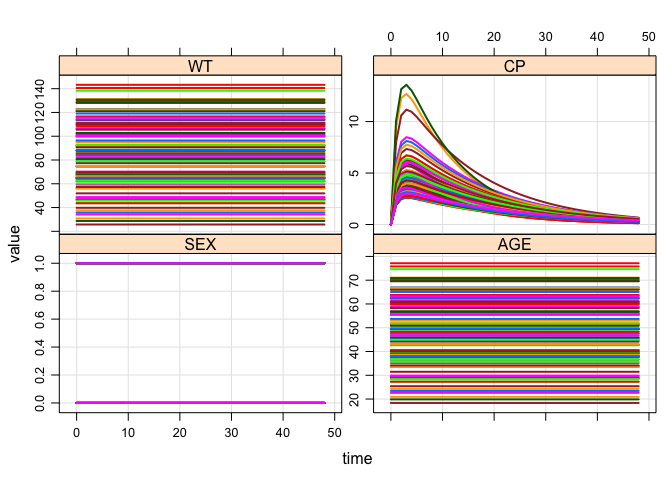
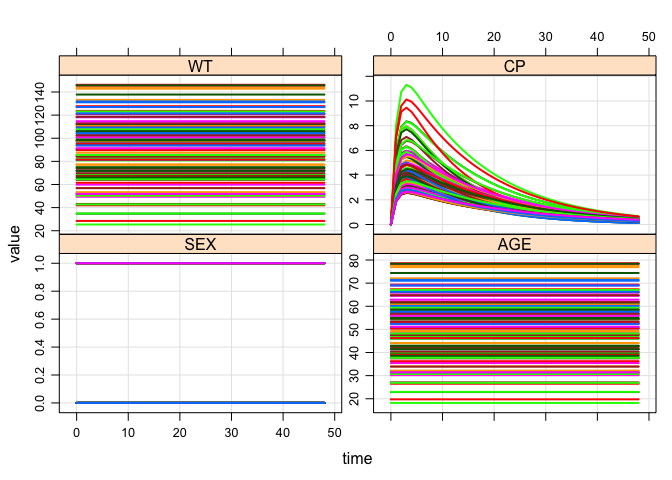
refresh covset.R

diff --git a/misc_demo/covset.md b/misc_demo/covset.md
@@ -19,7 +19,7 @@ See `$ENV` for covariate simulation from bounded parametric distributions
 code <- '
 $PARAM TVCL = 1, TVV = 20, TVKA = 1
 pfe = 0.7, tvwt = 80, tvage = 48
-WT = 70, AGE = 50, SEX = 0
+WT = 70, AGE = 50, SEX = 0, theta3 = 11
 
 $CMT GUT CENT
 $PKMODEL ncmt=1, depot=TRUE
@@ -36,13 +36,14 @@ if(AGE > 65) V = V*0.8;
 $CAPTURE SEX AGE WT
 
 $ENV
+z <- b ~ mutate(11)
 a <- SEX ~ rbinomial(pfe);
-b <- WT[50,100] ~ rnorm(tvwt,40)
 d <- AGE[18,80] ~ rnorm(tvage,20)
-f <- FLAG ~ runif(20,40) | GROUP
+b <- WT ~ mutate(AGE*2-b)
+f <- FLAG ~ runif(20,40) | STUDY
 
-cov1 <- covset(a,b)
-cov2 <- covset(b,d,a,f)
+cov1 <- covset(z,a,d,b)
+cov2 <- covset(z,a,d,b,f)
 
 $TABLE
 capture CP = CENT/V;
@@ -58,7 +59,7 @@ mod <- mcode("foo", code)
     . done.
 
 ``` r
-idata <- data_frame(ID=1:100,GROUP=ID%%2)
+idata <- data_frame(ID=1:100,STUDY=ID%%2)
 ```
 
 When you call `idata_set`, name the covset you want to invoke
@@ -88,7 +89,7 @@ Columns to add to the data set
 a <- SEX ~ rbinomial(pfe);
 b <- WT[50,100] ~ rnorm(tvwt,40)
 d <- AGE[18,80] ~ rnorm(tvage,20)
-f <- FLAG ~ runif(20,40) | GROUP
+f <- FLAG ~ runif(20,40) | STUDY
 ```
 
 Create the set of covariates that you want to add
@@ -105,13 +106,16 @@ cov2
     . [1] "AGE[18, 80] ~ rnorm(tvage, 20)"
     . 
     . $f
-    . [1] "FLAG ~ runif(20, 40) | GROUP"
+    . [1] "FLAG ~ runif(20, 40) | STUDY"
     . 
     . $b
     . [1] "WT[50, 100] ~ rnorm(tvwt, 40)"
     . 
     . $a
     . [1] "SEX ~ rbinomial(pfe)"
+    . 
+    . attr(,"class")
+    . [1] "covset"
 
 Add covariates to the data
 
@@ -120,18 +124,18 @@ idata %>% mrgsolve:::mutate_random(cov2,envir=e)
 ```
 
     . # A tibble: 100 × 6
-    .       ID GROUP      AGE     FLAG       WT   SEX
+    .       ID STUDY      AGE     FLAG       WT   SEX
     .    <int> <dbl>    <dbl>    <dbl>    <dbl> <dbl>
-    . 1      1     1 52.00832 33.18963 56.39856     1
-    . 2      2     0 61.83073 30.38936 50.83221     1
-    . 3      3     1 49.60105 33.18963 86.39854     1
-    . 4      4     0 39.07223 30.38936 64.46782     1
-    . 5      5     1 54.91050 33.18963 57.56074     1
-    . 6      6     0 31.75536 30.38936 69.50669     1
-    . 7      7     1 49.07430 33.18963 70.85583     1
-    . 8      8     0 64.34133 30.38936 60.43226     1
-    . 9      9     1 30.61147 33.18963 50.75021     1
-    . 10    10     0 63.36202 30.38936 88.65888     0
+    . 1      1     1 60.54713 21.34664 82.90659     0
+    . 2      2     0 44.87364 36.33189 55.51182     1
+    . 3      3     1 42.28185 21.34664 81.05537     1
+    . 4      4     0 67.19725 36.33189 73.68500     1
+    . 5      5     1 43.91645 21.34664 63.65002     0
+    . 6      6     0 23.44385 36.33189 64.86243     1
+    . 7      7     1 29.91474 21.34664 93.36886     0
+    . 8      8     0 29.15617 36.33189 56.29638     1
+    . 9      9     1 35.33560 21.34664 91.90319     0
+    . 10    10     0 46.97154 36.33189 81.55342     1
     . # ... with 90 more rows
 
 Other ways to use `$ENV`
